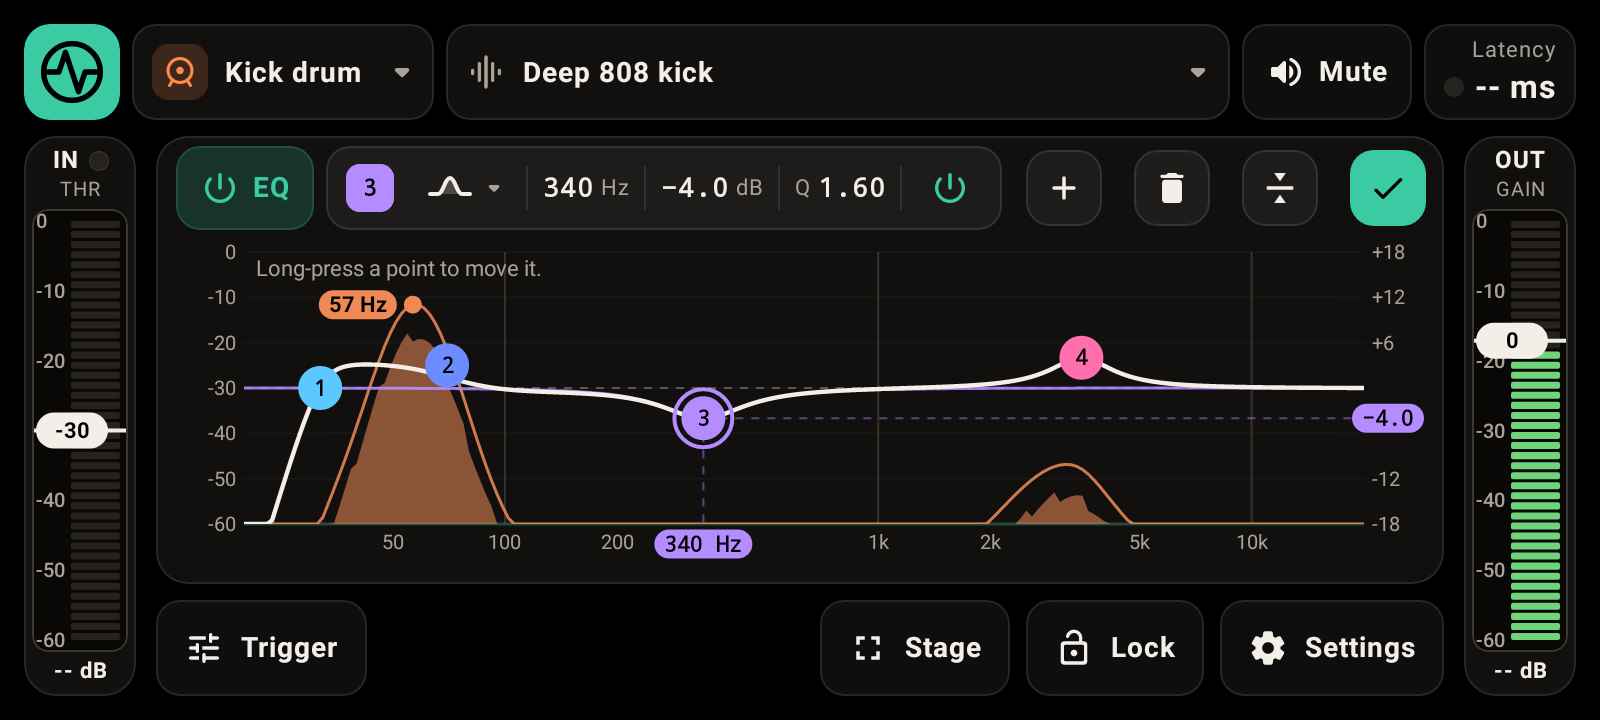
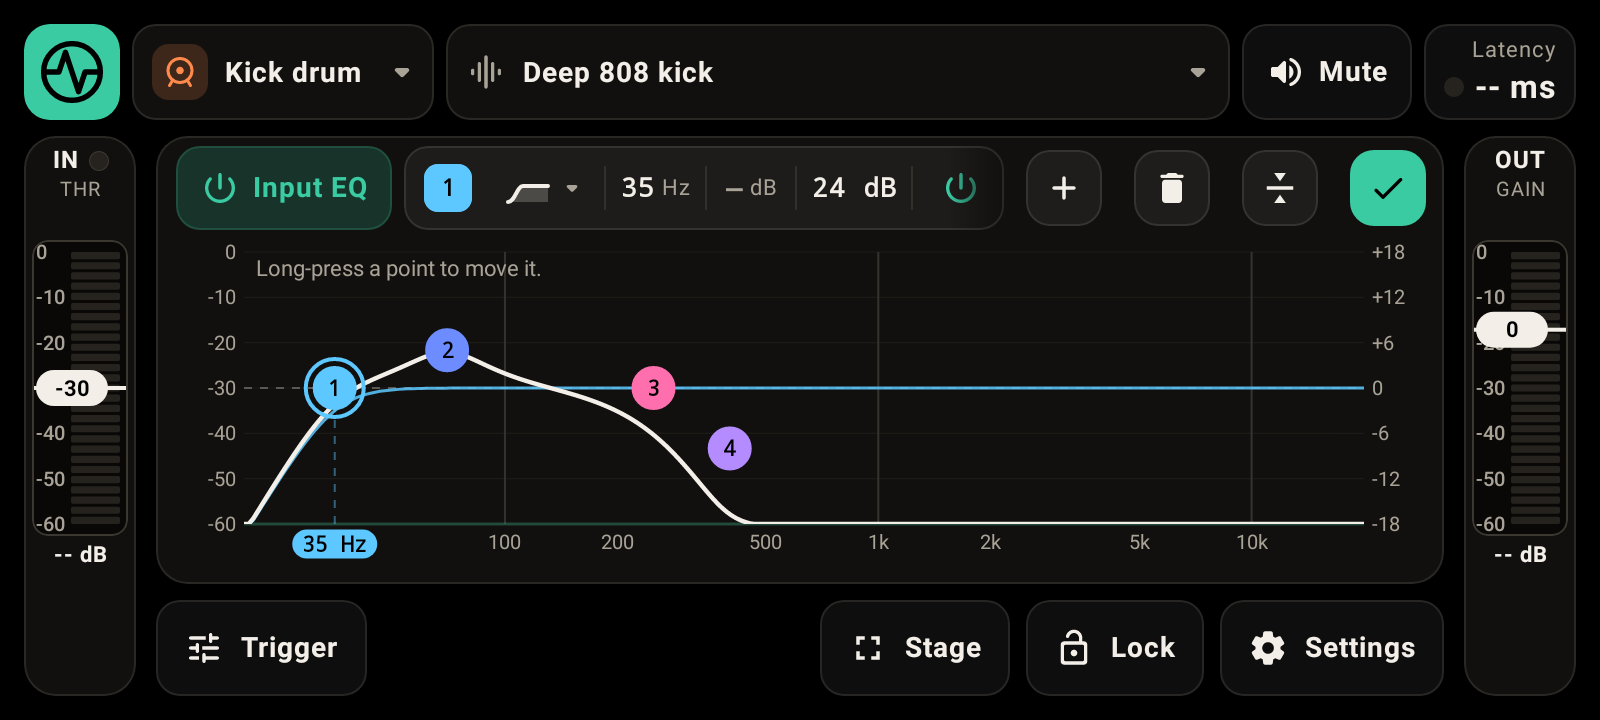
README: Input EQ, the sample editor, the limiter and Liquid Glass (#5)
* Explain what this repository holds and how to install DrumTrig

Claude-Session: https://claude.ai/code/session_01CanfjeTbmMFMTTSnr8zzQ8

* Point to the new Settings layout and the in-app update

Claude-Session: https://claude.ai/code/session_01CanfjeTbmMFMTTSnr8zzQ8

* README: DrumTrig checks for updates each time it opens (0.24.0)

Claude-Session: https://claude.ai/code/session_01CanfjeTbmMFMTTSnr8zzQ8

* README: what DrumTrig does, with screenshots; current Settings names

Claude-Session: https://claude.ai/code/session_01CanfjeTbmMFMTTSnr8zzQ8

* README: Input EQ, the sample editor and the limiter, with current screenshots

The page still described the trigger filter and a per-sample EQ. It now
describes Input EQ on the graph, the two-step sample editor, automatic
Hold, the limiter that keeps the output from clipping, and where the
latency comes from. The pictures are from 0.41.1, with two new ones of
the sample editor.

Claude-Session: https://claude.ai/code/session_01CanfjeTbmMFMTTSnr8zzQ8

* README: the Liquid Glass theme, with a screenshot

Claude-Session: https://claude.ai/code/session_01CanfjeTbmMFMTTSnr8zzQ8

---------

diff --git a/README.md b/README.md
@@ -2,24 +2,30 @@
 
 **DrumTrig** turns an Android phone into a live drum trigger. A mic on a drum (or an audio interface) goes in, and the phone plays the sound you chose, with as little delay as the phone can manage.
 
-![The live screen: the input and output meters either side, and the graph of the last hit in the middle](screenshots/live.png)
+![The live screen: the IN and OUT meters either side, and the graph of the incoming sound in the middle](screenshots/live.png)
 
 ## What it does
 
-- **Triggers from any mic.** Set the threshold (THR) on the input meter and a trigger filter on the graph, so only your drum fires the sound and the rest of the kit doesn't.
-- **Set by hitting.** Leave the drum alone for a moment, hit it a few times, and DrumTrig suggests the threshold, the filter and the hold time for you.
-- **Plays the sound you choose.** Bundled sounds, recorded drum kits (a free download inside the app), or your own samples. Each sample has its own EQ.
-- **Shows its delay.** The latency of every hit is measured and shown, with settings to bring it down.
-- **Made for the stage.** A big-type Stage view, Lock so nothing changes mid-song by accident, Mute, and a light and a dark look.
+- **Triggers from any mic.** Set the threshold (THR) on the IN meter, and shape the incoming sound with **Input EQ** on the graph, so only your drum fires the sound and the rest of the kit doesn't. The graph shows the sound as the trigger hears it.
+- **Set by hitting.** Leave the drum alone for a moment, hit it a few times, and DrumTrig suggests the threshold, the Input EQ cuts and the hold time for you. Even without it, Hold sets itself for each kind of drum, and you can still change it.
+- **Plays the sound you choose.** Bundled sounds, recorded drum kits (a free download inside the app), or your own samples. Every sample opens in the sample editor: trim it to the hit, fade the end, set its level, then shape it with its own EQ. The file itself is never changed.
+- **Never clips.** However hard you hit and however high GAIN goes, a limiter turns only the loudest moments down, with no added delay.
+- **Shows its delay.** The latency of every hit is measured and shown, and **Settings › Latency** explains where it comes from, with settings to bring it down.
+- **Made for the stage.** A big-type Stage view, Lock so nothing changes mid-song by accident, Mute, a message if your audio device disconnects, and a light and a dark look.
+- **Two themes.** Classic, with solid panels in warm greys, or Liquid Glass: frosted glass panels over a soft glow of colour, with rounder corners and pill-shaped buttons. Switch between them in **Settings › Display**; both come in light and dark.
 
 | | |
 |---|---|
-| ![The Trigger menu: filter, hold, delay, response](screenshots/trigger-menu.png) | ![Set by hitting, showing the threshold, filter and hold it found](screenshots/set-by-hitting.png) |
-| **Trigger menu**: when a hit counts and how it plays, kept per instrument. | **Set by hitting**: the threshold, filter and hold, found from the drum itself. |
-| ![The EQ on the graph, with four bands over the sample's spectrum](screenshots/eq.png) | ![The Stage view: the instrument, the input meter, a big latency figure](screenshots/stage.png) |
-| **EQ**: up to seven bands per sample, drawn over its sound. | **Stage**: what matters mid-song, readable from behind the kit. |
+| ![The Trigger menu: Input EQ, Hold, Automatic Hold, Range and Response](screenshots/trigger-menu.png) | ![Set by hitting, showing the threshold, Input EQ cuts and hold it found](screenshots/set-by-hitting.png) |
+| **Trigger menu**: when a hit counts and how it plays, kept per instrument. | **Set by hitting**: the threshold, the Input EQ cuts and the hold, found from the drum itself. |
+| ![Input EQ on the graph, with four bands](screenshots/eq.png) | ![The Stage view: the instrument, the input meter, a big latency figure](screenshots/stage.png) |
+| **Input EQ**: up to seven bands per instrument, shaping what reaches THR. | **Stage**: what matters mid-song, readable from behind the kit. |
+| ![The sample editor's first step: the waveform with start, end and fade-out](screenshots/sample-editor.png) | ![The sample editor's second step: Sample EQ over the sample's sound](screenshots/sample-editor-eq.png) |
+| **Sample editor, step 1**: cut it to the hit and set its level. | **Sample editor, step 2**: shape its sound, with Repeat playing it while you change things. |
 
 ![The live screen in the light look](screenshots/live-light.png)
+
+![The live screen with Liquid Glass: frosted glass panels and buttons over a soft teal, blue and orange glow](screenshots/liquid-glass.png)
 
 ## Install or update DrumTrig
 
